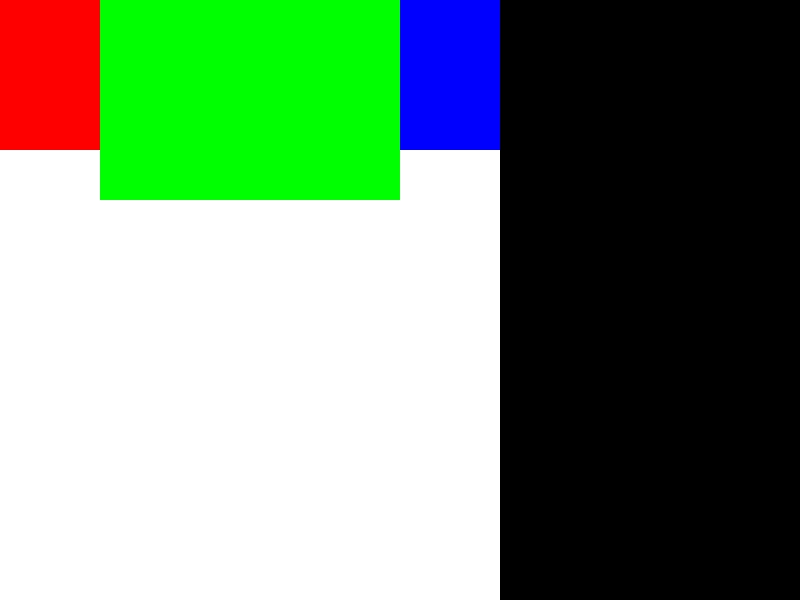
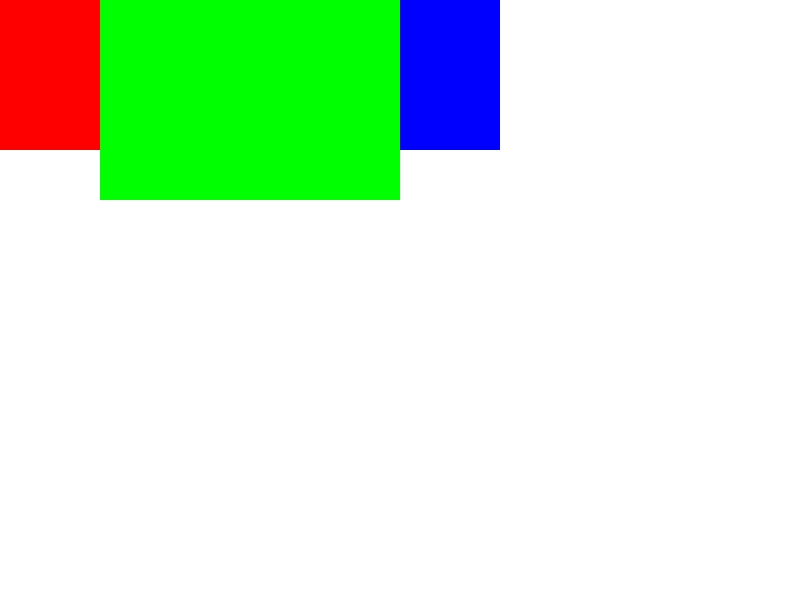
更新第六周作业

diff --git a/week07/CSSLayout/layout.js b/week07/CSSLayout/layout.js
@@ -8,7 +8,7 @@ function getStyle(element) {
         if (element.style[prop].toString().match(/px$/)) {
             element.style[prop] = parseInt(element.style[prop]);
         }
-        if (element.style[prop].toString().match(/^[0-9\.]+$W/)) {
+        if (element.style[prop].toString().match(/^[0-9\.]+$/)) {
             element.style[prop] = parseInt(element.style[prop]);
         }
     }
@@ -30,6 +30,7 @@ function layout(element) {
 
     let style = elementStyle;
 
+    // 宽高默认值设置
     ['width', 'height'].forEach(size => {
         if (style[size] === 'auto' || style[size] === '') {
             style[size] = null;
@@ -228,28 +229,28 @@ function layout(element) {
                         step = 0;
                         break;
                     case 'flex-end':
-                        currentMain = mainBase;
+                        currentMain = mainBase * mainSign + mainBase;
                         step = 0;
                         break;
                     case 'center':
-                        currentMain = mainBase;
+                        currentMain = mainSpace / 2 * mainSign + mainBase;
                         step = 0;
                         break;
                     case 'space-between':
-                        step = mainSpace / items.length * mainSign;
-                        currentMain = step / 2 + mainBase;
+                        step = mainSpace / (items.length - 1) * mainSign;
+                        currentMain = mainBase;
                         break;
                     case 'space-around':
-                        currentMain = mainBase;
-                        step = 0;
+                        step = mainSpace / items.length * mainSign;
+                        currentMain = step / 2 + mainBase;
                         break;
                     default:
                         break;
                 }
                 items.forEach(item => {
                     let itemStyle = getStyle(item);
-                    itemStyle[mainStart] = currentMain
-                    itemStyle[mainEnd] = itemStyle[mainStart] + mainSign * itemStyle[mainSize]
+                    itemStyle[mainStart] =  currentMain;
+                    itemStyle[mainEnd] = itemStyle[mainStart] + mainSign * itemStyle[mainSize];
                     currentMain = itemStyle[mainEnd] + step;
                 })
             }
@@ -335,7 +336,7 @@ function layout(element) {
 
             if (align === 'stretch') {
                 itemStyle[crossStart] = crossBase;
-                itemStyle[crossEnd] = crossBase + crossSign * (itemStyle[mainSize] !== null || itemStyle[mainSize] !== (void 0) 
+                itemStyle[crossEnd] = crossBase + crossSign * (itemStyle[crossSize] !== null || itemStyle[crossSize] !== (void 0) 
                     ? itemStyle[crossSize] : lineCrossSize);
                 itemStyle[crossSize] = crossSign * (itemStyle[crossEnd] - itemStyle[crossStart]);
             }

diff --git a/week07/CSSLayout/parser.js b/week07/CSSLayout/parser.js
@@ -374,10 +374,10 @@ const html = `<html maaa=a >
 <head>
     <style>
 .box {
-    width: 500px;
+    width: 800px;
     height: 600px;
     display: flex;
-    justify-content: space-around;
+    justifyContent: space-between;
     background-color: rgb(255, 255, 255);
 }
 .box1 {
